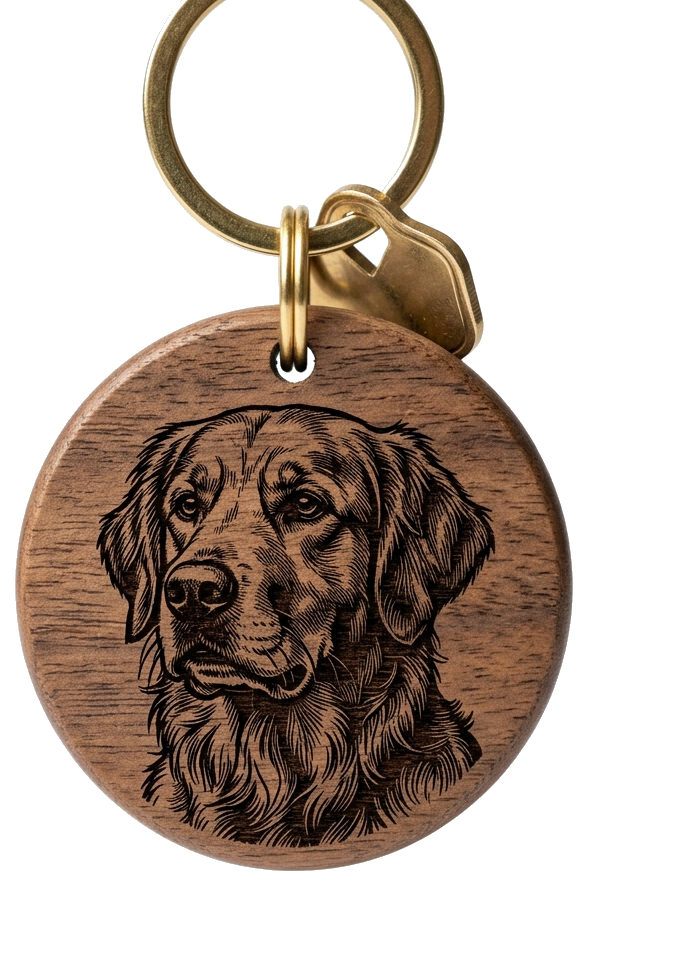
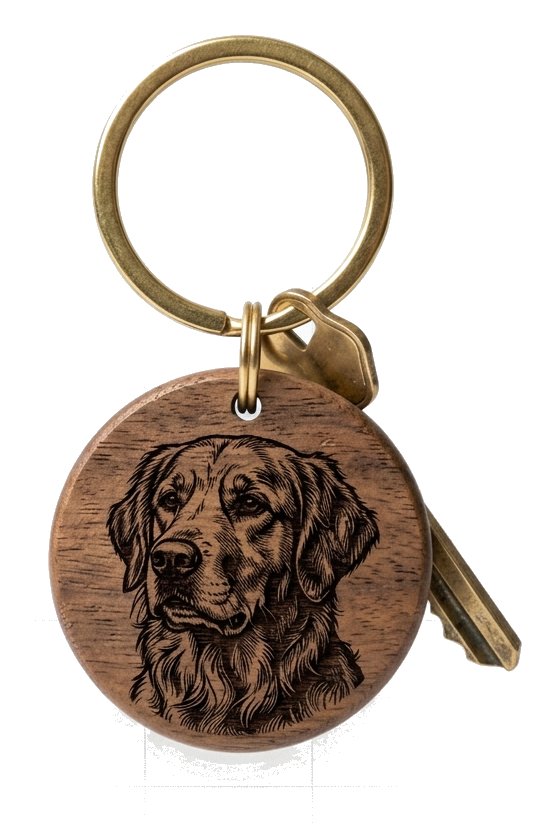
fix: re-extracted keychain PNG with full headroom padding to prevent top ring truncation

diff --git a/index.html b/index.html
@@ -90,7 +90,7 @@
                     <div class="hero-sample-item sample-pos-tl depth-foreground" data-shape="rectangle" role="button" tabindex="0"
                         title="Click to customize Rectangle keychain">
                         <div class="sample-image-wrap">
-                            <img src="assets/keychains/wood-rect-photo.png?v=20260916_v2"
+                            <img src="assets/keychains/wood-rect-photo.png?v=20260916_v3"
                                 alt="Rectangle Oak Wood Photo Laser Engraved Keychain" class="sample-png sample-wood" />
                             <div class="sample-glow"></div>
                         </div>
@@ -101,7 +101,7 @@
                     <div class="hero-sample-item sample-pos-tr depth-foreground" data-shape="circle" role="button" tabindex="0"
                         title="Click to customize Circle keychain">
                         <div class="sample-image-wrap">
-                            <img src="assets/keychains/wood-circle-photo.png?v=20260916_v2"
+                            <img src="assets/keychains/wood-circle-photo.png?v=20260916_v3"
                                 alt="Circle Walnut Wood Pet Photo Laser Engraved Keychain" class="sample-png sample-wood" />
                             <div class="sample-glow"></div>
                         </div>
@@ -112,7 +112,7 @@
                     <div class="hero-sample-item sample-pos-bl depth-foreground" data-shape="heart" role="button" tabindex="0"
                         title="Click to customize Heart keychain">
                         <div class="sample-image-wrap">
-                            <img src="assets/keychains/wood-heart-photo.png?v=20260916_v2"
+                            <img src="assets/keychains/wood-heart-photo.png?v=20260916_v3"
                                 alt="Heart Birch Wood Photo Laser Engraved Keychain" class="sample-png sample-wood" />
                             <div class="sample-glow"></div>
                         </div>
@@ -123,7 +123,7 @@
                     <div class="hero-sample-item sample-pos-br depth-foreground" data-shape="rectangle" role="button" tabindex="0"
                         title="Click to customize Rectangle keychain">
                         <div class="sample-image-wrap">
-                            <img src="assets/keychains/wood-rect-text.png?v=20260916_v2"
+                            <img src="assets/keychains/wood-rect-text.png?v=20260916_v3"
                                 alt="Rectangle Oak Wood Text Laser Engraved Keychain"
                                 class="sample-png sample-wood" />
                             <div class="sample-glow"></div>
@@ -135,7 +135,7 @@
                     <div class="hero-sample-item sample-pos-ml depth-midground" data-shape="heart" role="button" tabindex="0"
                         title="Click to customize Heart keychain">
                         <div class="sample-image-wrap">
-                            <img src="assets/keychains/keychain-oak-heart.png?v=20260916_v2"
+                            <img src="assets/keychains/keychain-oak-heart.png?v=20260916_v3"
                                 alt="Heart Natural Oak Wood Laser Engraved Keychain" class="sample-png sample-wood" />
                             <div class="sample-glow"></div>
                         </div>
@@ -146,7 +146,7 @@
                     <div class="hero-sample-item sample-pos-mr depth-midground" data-shape="circle" role="button" tabindex="0"
                         title="Click to customize Circle keychain">
                         <div class="sample-image-wrap">
-                            <img src="assets/keychains/keychain-wood-circle.png?v=20260916_v2"
+                            <img src="assets/keychains/keychain-wood-circle.png?v=20260916_v3"
                                 alt="Circle Walnut Wood Laser Engraved Keychain" class="sample-png sample-wood" />
                             <div class="sample-glow"></div>
                         </div>
@@ -157,7 +157,7 @@
                     <div class="hero-sample-item sample-pos-tl-bg depth-background" data-shape="circle" role="button" tabindex="0"
                         title="Click to customize Circle keychain">
                         <div class="sample-image-wrap">
-                            <img src="assets/keychains/fixed_circle_photo.png?v=20260916_v2"
+                            <img src="assets/keychains/fixed_circle_photo.png?v=20260916_v3"
                                 alt="Circle Hardwood Photo Laser Engraved Keychain" class="sample-png sample-wood" />
                             <div class="sample-glow"></div>
                         </div>
@@ -168,7 +168,7 @@
                     <div class="hero-sample-item sample-pos-br-bg depth-background" data-shape="heart" role="button" tabindex="0"
                         title="Click to customize Heart keychain">
                         <div class="sample-image-wrap">
-                            <img src="assets/keychains/keychain-oak-heart.png?v=20260916_v2"
+                            <img src="assets/keychains/keychain-oak-heart.png?v=20260916_v3"
                                 alt="Heart Natural Oak Wood Laser Engraved Keychain" class="sample-png sample-wood" />
                             <div class="sample-glow"></div>
                         </div>
